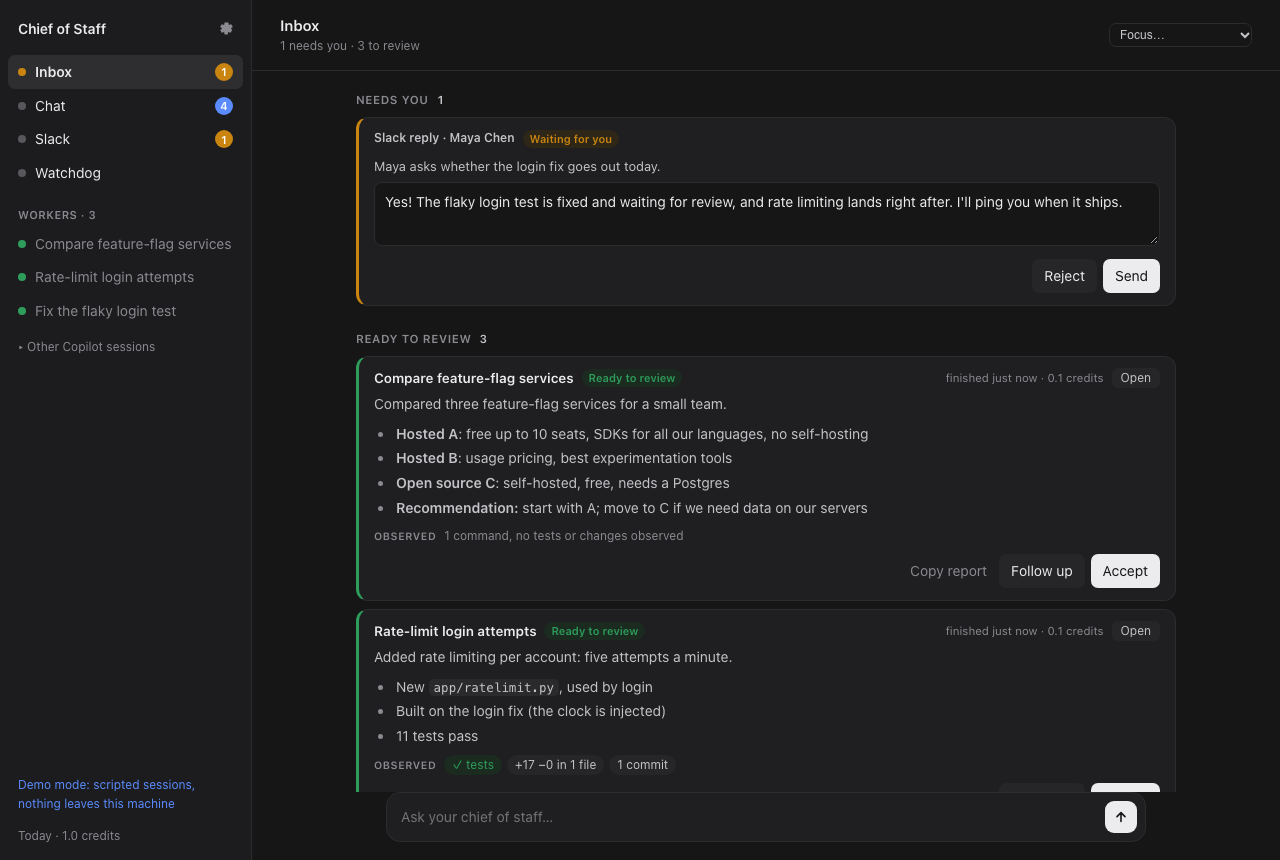
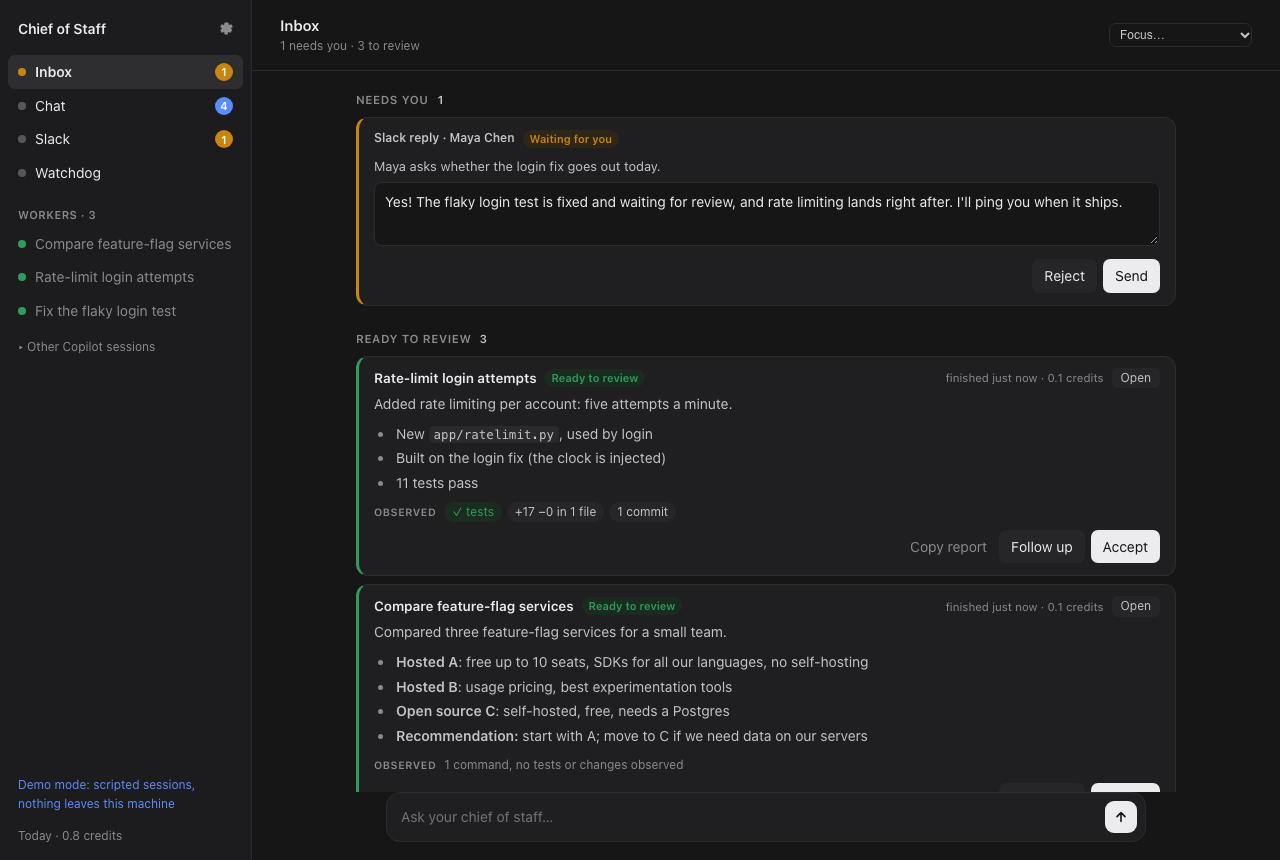
README in English and Chinese
Shorter, with the reason for the project, install, the sign-ins, and how it works. The
Chinese version is linked from the top of each. Fresh screenshots.

diff --git a/README.md b/README.md
@@ -1,98 +1,121 @@
 # Chief of Staff
 
-**An AI chief of staff for your GitHub Copilot agents.** Tell it what you need, several things
-at once if you like. It hands each task to its own Copilot session, sends follow-ups to the
-session that already knows the subject, drafts your Slack replies and PR reviews for you to
-approve, and keeps quiet until something needs you.
+**English** · [简体中文](https://github.com/evanl666/chiefofstaff/blob/main/README.zh-CN.md)
 
-![The inbox: results ready to review, with what was observed](https://raw.githubusercontent.com/evanl666/chiefofstaff/main/docs/images/inbox-review.png)
+One inbox for all your GitHub Copilot sessions. Tell it what you need. It gives each task to
+its own Copilot session, sends follow-ups to the session that already has the context, drafts
+your Slack replies, and lets you know when something is ready to review.
+
+![The inbox, with finished tasks waiting for review](https://raw.githubusercontent.com/evanl666/chiefofstaff/main/docs/images/inbox-review.png)
+
+Try it with scripted sessions first. No account needed:
 
 ```bash
-uvx chiefofstaff --demo     # try it now: scripted sessions, no account needed
+uvx chiefofstaff --demo
 ```
 
-## Why
+## Why I built this
 
-Running many Copilot sessions in parallel is easy; keeping track of them is not. You end up
-switching between terminals to check on them, answering Slack pings in between, and losing
-track of which session knew what. Chief of Staff gives you **one inbox** instead:
+I usually have several Copilot sessions going at once: one fixing a test, one reviewing a PR,
+one digging through logs. Every few minutes I'd flip between terminals to see which one was
+stuck, which one had a question, and which one had quietly finished. Slack kept pinging me in
+between. After a while I couldn't remember which session knew what, and I'd start a new one for
+a follow-up that an old one could have answered in a minute.
 
-- **Needs you**: a question a worker cannot answer, a reply to approve, a sign-in.
-- **Running**: what each task is doing right now, or what it waits for.
-- **Ready to review**: finished work with **receipts**: the tests that ran and passed, the
-  commits, the PR checks, next to what the worker says it did, and a flag where they disagree.
+Now I talk to one session, the Router, and Chief of Staff keeps track of the rest.
 
 ## What it does
 
-- **Routes work to the session that knows it.** Follow-ups on the login fix go to the worker
-  that fixed the login, with its context and checkout. Independent work gets its own worker,
-  and can build on earlier results.
-- **Tasks that wait for each other.** "Fix the flaky test, then add rate limiting": the second
-  starts when the first is done, with its result.
-- **Delegate by reaction.** React 🤖 to any Slack message ("can someone fix the export?") and
-  it becomes a task; when it is done, the answer is drafted in that thread for you to approve.
-- **Handles your Slack.** DMs and mentions get a reply drafted in your voice; nothing is sent
-  until you approve. Replies in that thread go straight to the session that owns it.
-- **Reviews PRs you are asked to review**, as drafts you approve.
-- **Focus mode.** Notifications wait; the Router handles what it can; you get one summary.
-- **A Watchdog** notices stalled or looping workers and nudges them back on track.
-- **Workers in their own folders**: a git worktree per task, in Copilot's OS sandbox, so your
-  checkout is never touched and commands cannot write elsewhere.
-- **Runs on the Copilot you already have**: your company's Copilot plan, models, MCP servers
-  and policies. No new AI vendor to approve.
+- Splits a request into tasks. "Fix the flaky login test, then add rate limiting, and compare
+  feature-flag services" becomes three tasks. The second waits for the first and starts with
+  its result.
+- Sends follow-ups to the session that did the work, with its history and checkout, instead of
+  starting over in a new one.
+- Shows what was observed next to what the worker reports: the test runs, commits, diff and PR
+  checks. If a report says "all tests pass" and no test ran, the card says so.
+- Leaves your own checkout alone. Each worker gets its own folder and git worktree and runs in
+  Copilot's OS sandbox, so it can't write anywhere else.
+- Drafts replies to Slack DMs and mentions in your style. Nothing is sent until you press Send.
+- Lets you delegate from Slack: react 🤖 to any message ("can someone look at the export
+  bug?") and it becomes a task. When it's done, the answer is drafted in that thread.
+- Has a focus mode. Pick how long: notifications wait, the Router handles what it can, and you
+  get one summary at the end.
+- Watches for workers that stall or go in circles, and nudges them.
 
-![Approving a Slack reply drafted in your voice](https://raw.githubusercontent.com/evanl666/chiefofstaff/main/docs/images/approve-dark.png)
+It runs on the Copilot you already have: your plan, your models, your MCP servers and your
+company's policies. No other AI service or API key.
 
-## Get started
+![Approving a Slack reply](https://raw.githubusercontent.com/evanl666/chiefofstaff/main/docs/images/approve-dark.png)
 
-You need macOS or Linux, Python 3.11+, and the [GitHub Copilot CLI](https://docs.github.com/en/copilot/how-tos/copilot-cli)
-signed in (`npm install -g @github/copilot`, then `copilot login`).
+## Install
+
+You need macOS or Linux, Python 3.11 or newer, [uv](https://docs.astral.sh/uv/getting-started/installation/)
+(or pipx), and the [GitHub Copilot CLI](https://docs.github.com/en/copilot/how-tos/copilot-cli):
 
 ```bash
+npm install -g @github/copilot
+copilot login
 uvx chiefofstaff            # or: pipx install chiefofstaff && chiefofstaff
 ```
 
-Your browser opens a private local page. Add a project folder when it asks, then tell your
-chief of staff what you need. Closing the page does not stop your sessions; they resume after a
-restart.
+Your browser opens `http://127.0.0.1:8765`. Add a project folder, then type what you need in
+the box at the bottom.
 
-Optional: [connect Slack](https://github.com/evanl666/chiefofstaff/blob/main/docs/guide.md#slack) to have DMs and mentions answered, and
-[GitHub review requests](https://github.com/evanl666/chiefofstaff/blob/main/docs/guide.md#github-reviews).
+Everything runs on your machine, and your data stays in `~/Library/Application Support/chiefofstaff`
+(macOS) or `~/.local/share/chiefofstaff` (Linux). Closing the tab doesn't stop anything; press
+Ctrl+C in the terminal to stop. Sessions continue where they left off when you start it again.
+
+Options: `--port`, `--data-dir`, `--no-browser`, `--demo`. To update: `uvx chiefofstaff@latest`
+or `pipx upgrade chiefofstaff`.
+
+## Signing in
+
+There are a few separate sign-ins. Only the first one is required.
+
+1. **Copilot.** Run `copilot login` once. If you haven't, the page tells you what to do. On a
+   company plan, an admin may need to turn on Copilot CLI for you.
+2. **The page itself.** Every start prints a private link with a fresh token in the terminal
+   and opens it for you. It stays signed in for 24 hours. After a restart, use the new link.
+   Keep it to yourself: whoever has it can act as you.
+3. **GitHub**, to review PRs you're asked to review: `gh auth login`. With the sandbox on, also
+   run `copilot sandbox ca create && copilot sandbox ca trust` once, so `gh` works inside it.
+4. **Slack and other services.** Paste a Slack user token in Settings
+   ([how to get one](https://github.com/evanl666/chiefofstaff/blob/main/docs/guide.md#slack)).
+   When a worker needs another service, like your docs or issue tracker, a sign-in card shows
+   up in the inbox.
 
 ## How it works
 
+Every session is a regular Copilot CLI session. You'll find them in `copilot --resume`, named
+"Chief of Staff · …". Chief of Staff drives them through the Copilot SDK:
+
 ```
- you ──► inbox ◄─────────────────────────────── one summary, cards that need you
-          │
-          ▼
-       Router ──── tasks ───► worker · worker · worker     (each: its own Copilot session,
-          ▲                     │  report, ask you,           folder and git worktree)
-          │                     ▼  ask each other
- Slack, GitHub watchers    Slack session ──► drafts you approve ──► Slack
-          Watchdog ──► nudges stalled workers
+you ── inbox ── Router ── tasks ──► worker · worker · worker
+                  ▲                 (own folder, worktree, sandbox)
+Slack, GitHub ────┘    Slack session ──► drafts you approve
+                       Watchdog ──► nudges stuck workers
 ```
 
-Every session is a real Copilot session (`copilot --resume <id>` works). Chief of Staff
-coordinates them: it stores every message before delivering it, wraps it in an envelope that
-says who sent it (so a Slack message cannot pose as you), checks what was observed against what
-was reported, and keeps the owner's attention for what matters.
+Sessions never talk to each other directly. They call tools like `spawn_worker`, `report` or
+`ask_session`, and Chief of Staff delivers the message. Each message is saved before it's sent
+and labeled with who it's from, so a Slack message can't pass itself off as you.
 
-- [Guide](https://github.com/evanl666/chiefofstaff/blob/main/docs/guide.md): the inbox, tasks, workspaces, Slack, focus, settings.
-- [Architecture](https://github.com/evanl666/chiefofstaff/blob/main/docs/ARCHITECTURE.md): how it is built.
-- [Security](https://github.com/evanl666/chiefofstaff/blob/main/SECURITY.md): what the OS enforces, what Chief of Staff enforces, and what only the
-  model's instructions do.
+- [User guide](https://github.com/evanl666/chiefofstaff/blob/main/docs/guide.md)
+- [Architecture](https://github.com/evanl666/chiefofstaff/blob/main/docs/ARCHITECTURE.md)
+- [Security](https://github.com/evanl666/chiefofstaff/blob/main/SECURITY.md): what the OS
+  sandbox enforces, what Chief of Staff enforces, and what relies on the model following
+  instructions.
 
 ## Status
 
-Alpha: expect rough edges and changes. Copilot usage counts against your plan like any
-Copilot session; the inbox shows credits per task.
+Early (0.1). Expect rough edges. Copilot usage counts against your plan like any other
+session, and the inbox shows the credits each task used.
 
-## Contributing
-
-Start with the demo and [CONTRIBUTING.md](https://github.com/evanl666/chiefofstaff/blob/main/CONTRIBUTING.md); [good first issues](https://github.com/evanl666/chiefofstaff/blob/main/docs/good-first-issues.md)
-are listed there. Ideas and bug reports are welcome as issues.
+Bug reports and ideas are welcome as issues. If you'd like to contribute, start with
+[CONTRIBUTING.md](https://github.com/evanl666/chiefofstaff/blob/main/CONTRIBUTING.md) and the
+[good first issues](https://github.com/evanl666/chiefofstaff/blob/main/docs/good-first-issues.md).
 
 ## License
 
-[MIT](https://github.com/evanl666/chiefofstaff/blob/main/LICENSE). Chief of Staff is an independent project, not affiliated with GitHub.
-"GitHub Copilot" is a trademark of GitHub, Inc.
+MIT. Chief of Staff is an independent project, not made by or affiliated with GitHub. GitHub
+Copilot is a trademark of GitHub, Inc.

diff --git a/README.zh-CN.md b/README.zh-CN.md
@@ -1,0 +1,115 @@
+# Chief of Staff
+
+[English](https://github.com/evanl666/chiefofstaff/blob/main/README.md) · **简体中文**
+
+用一个收件箱管理你所有的 GitHub Copilot session。你说要做什么，它把每个任务交给一个单独的
+Copilot session；后续的追问会发给已经了解情况的那个 session；Slack 消息它帮你起草回复；
+事情做完了，再提醒你来检查。
+
+![收件箱：做完的任务在等你检查](https://raw.githubusercontent.com/evanl666/chiefofstaff/main/docs/images/inbox-review.png)
+
+可以先用脚本模拟的 session 体验一下，不需要登录任何账号：
+
+```bash
+uvx chiefofstaff --demo
+```
+
+## 为什么做这个
+
+我平时会同时开好几个 Copilot session：一个修测试，一个看 PR，一个翻日志。每隔几分钟就得在
+几个终端之间来回切，看哪个卡住了，哪个在等我回答，哪个已经悄悄做完了。中间 Slack 还不停地
+@我。时间一长，我就记不清哪个 session 知道什么了，有时候一个旧 session 一分钟就能回答的追问，
+我却开了个新的从头来。
+
+现在我只跟其中一个 session 说话，也就是 Router，其余的交给 Chief of Staff 去管。
+
+## 能做什么
+
+- 把一句话拆成几个任务。比如"修好那个不稳定的登录测试，然后加上限流，再对比一下几个
+  feature flag 服务"，会变成三个任务。第二个会等第一个做完，带着它的结果开始。
+- 追问会发给做过这件事的那个 session，它有之前的对话和代码目录，不用从头再来。
+- 把实际观察到的东西放在 worker 的汇报旁边：跑了哪些测试、提交了什么、改了多少行、PR 检查
+  有没有过。如果汇报里说"测试全部通过"，但根本没看到跑测试，卡片上会直接标出来。
+- 不碰你自己的代码目录。每个 worker 有自己的文件夹和 git worktree，跑在 Copilot 的系统沙箱里，
+  写不到别的地方。
+- 按你的语气起草 Slack 私信和 @ 的回复。你不点 Send，什么都不会发出去。
+- 可以直接在 Slack 里委派：给任何一条消息点个 🤖（比如"谁能看下导出功能的 bug？"），它就
+  变成一个任务。做完以后，回复会起草在那条消息的 thread 里。
+- 专注模式：选一个时长，期间通知先压着，Router 能处理的自己处理，结束后给你一份总结。
+- 发现卡住或者原地打转的 worker，会去推它一把。
+
+它用的就是你现有的 Copilot：你的订阅、模型、MCP server 和公司的策略，不需要额外的 AI 服务
+或 API key。
+
+![批准一条 Slack 回复](https://raw.githubusercontent.com/evanl666/chiefofstaff/main/docs/images/approve-dark.png)
+
+## 安装
+
+需要 macOS 或 Linux、Python 3.11 及以上、[uv](https://docs.astral.sh/uv/getting-started/installation/)
+（或者 pipx），以及 [GitHub Copilot CLI](https://docs.github.com/en/copilot/how-tos/copilot-cli)：
+
+```bash
+npm install -g @github/copilot
+copilot login
+uvx chiefofstaff            # 或者：pipx install chiefofstaff && chiefofstaff
+```
+
+浏览器会打开 `http://127.0.0.1:8765`。先添加一个项目文件夹，然后在底部的输入框里说你要做什么。
+
+所有东西都在你自己的电脑上跑，数据存在 `~/Library/Application Support/chiefofstaff`（macOS）
+或 `~/.local/share/chiefofstaff`（Linux）。关掉网页不会停掉任何东西，要停就在终端里按 Ctrl+C。
+下次启动时，各个 session 会接着之前的进度继续。
+
+常用参数：`--port`、`--data-dir`、`--no-browser`、`--demo`。升级：`uvx chiefofstaff@latest`
+或 `pipx upgrade chiefofstaff`。
+
+## 登录
+
+一共有几处登录，只有第一个是必须的。
+
+1. **Copilot**：运行一次 `copilot login`。如果还没登录，页面上会告诉你怎么做。公司账号可能
+   需要管理员先为你开启 Copilot CLI。
+2. **本地网页**：每次启动，终端里都会打印一个带新 token 的私密链接，并自动打开。登录状态保持
+   24 小时，重启之后要用新的链接。这个链接别给别人，拿到它就能以你的身份操作。
+3. **GitHub**：如果要让它帮你 review 别人请你看的 PR，需要 `gh auth login`。开着沙箱的话，还要
+   运行一次 `copilot sandbox ca create && copilot sandbox ca trust`，这样沙箱里的 `gh` 才能用。
+4. **Slack 和其他服务**：在 Settings 里粘贴 Slack user token
+   （[怎么获取](https://github.com/evanl666/chiefofstaff/blob/main/docs/guide.md#slack)，英文）。
+   worker 需要用到别的服务时，比如公司文档或 issue 系统，收件箱里会出现一张登录卡片。
+
+## 工作原理
+
+每个 session 都是普通的 Copilot CLI session，在 `copilot --resume` 里能找到，名字是
+"Chief of Staff · …"。Chief of Staff 通过 Copilot SDK 来驱动它们：
+
+```
+你 ── 收件箱 ── Router ── 任务 ──► worker · worker · worker
+                  ▲                (各自的文件夹、worktree、沙箱)
+Slack、GitHub ────┘    Slack session ──► 等你批准的草稿
+                       Watchdog ──► 推一把卡住的 worker
+```
+
+session 之间从不直接对话。它们调用 `spawn_worker`、`report`、`ask_session` 这类工具，由
+Chief of Staff 负责传话。每条消息发出去之前都会先存下来，并标明是谁发的，所以一条 Slack 消息
+没法冒充成你。
+
+更多文档（英文）：
+
+- [使用指南](https://github.com/evanl666/chiefofstaff/blob/main/docs/guide.md)
+- [架构](https://github.com/evanl666/chiefofstaff/blob/main/docs/ARCHITECTURE.md)
+- [安全说明](https://github.com/evanl666/chiefofstaff/blob/main/SECURITY.md)：哪些限制由系统沙箱
+  保证，哪些由 Chief of Staff 保证，哪些要靠模型遵守指令。
+
+## 当前状态
+
+早期版本（0.1），会有不少粗糙的地方。Copilot 的用量和平时一样算在你的订阅里，收件箱会显示
+每个任务用了多少 credits。
+
+欢迎在 issue 里提 bug 和想法。想参与开发的话，可以先看
+[CONTRIBUTING.md](https://github.com/evanl666/chiefofstaff/blob/main/CONTRIBUTING.md) 和
+[适合新手的任务](https://github.com/evanl666/chiefofstaff/blob/main/docs/good-first-issues.md)。
+
+## 许可证
+
+MIT。Chief of Staff 是独立项目，不是 GitHub 出品，和 GitHub 也没有关联。GitHub Copilot 是
+GitHub, Inc. 的商标。
